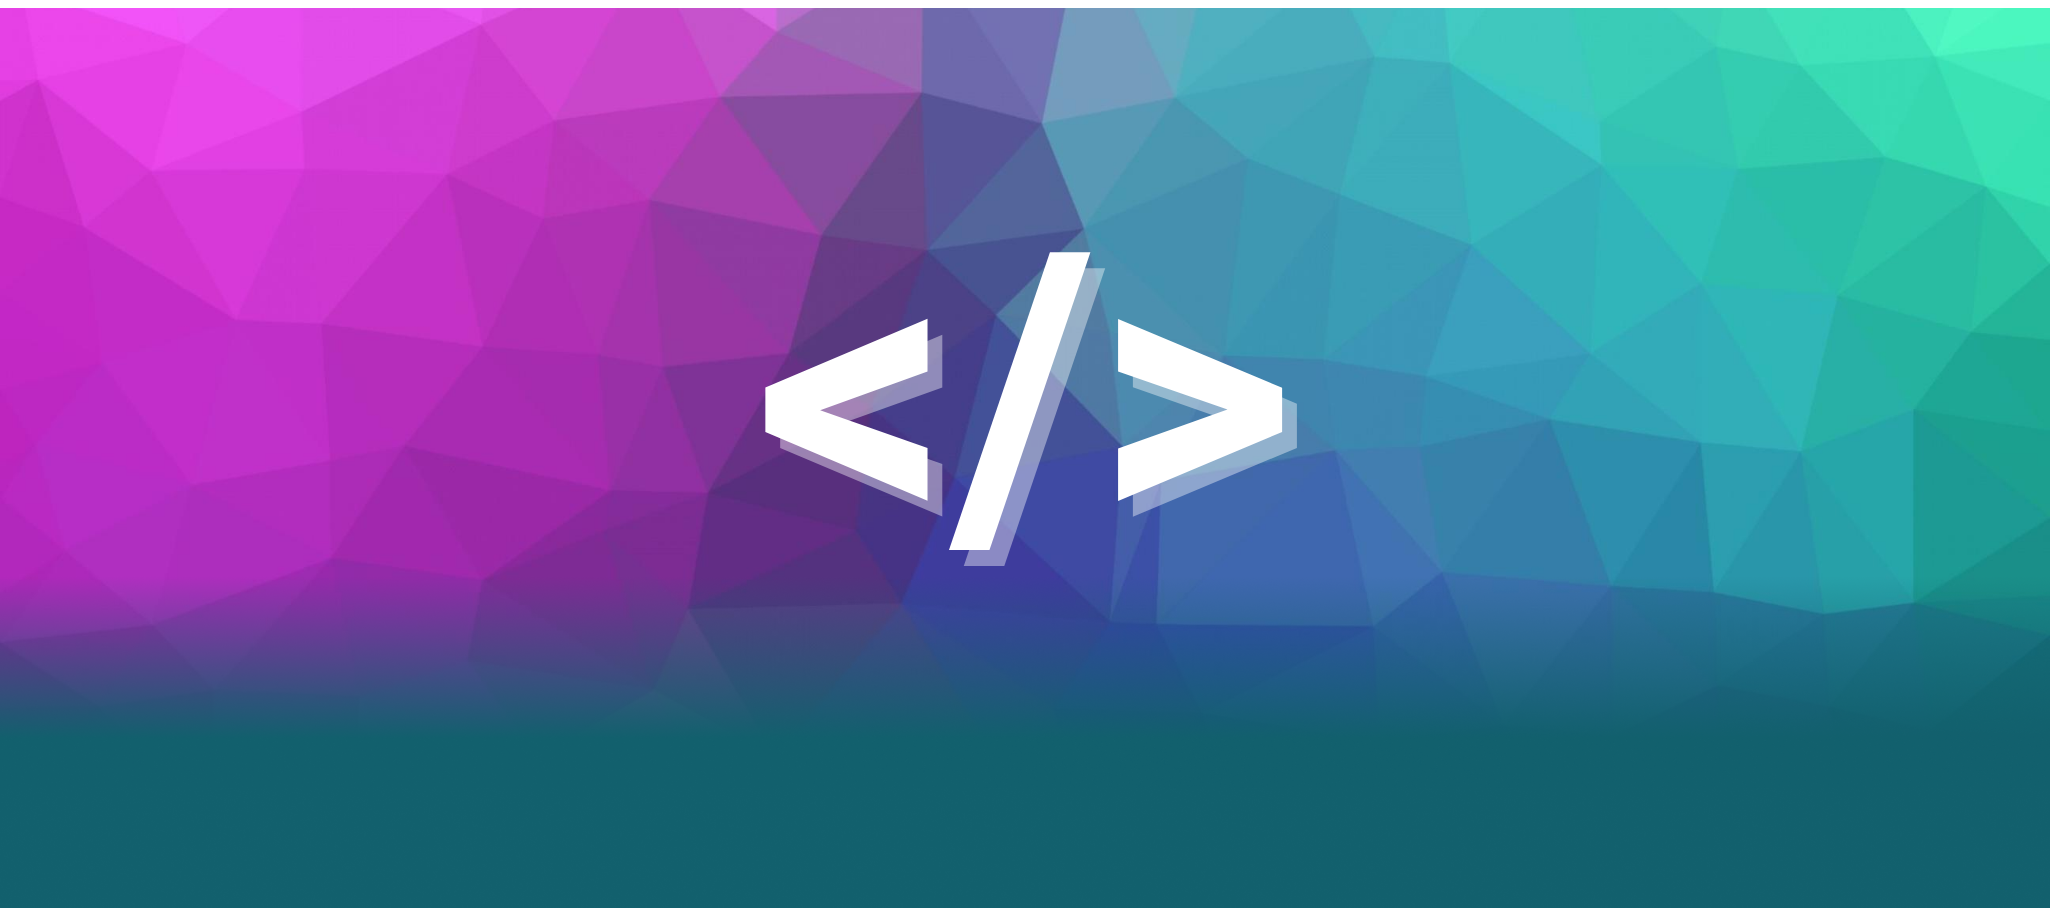
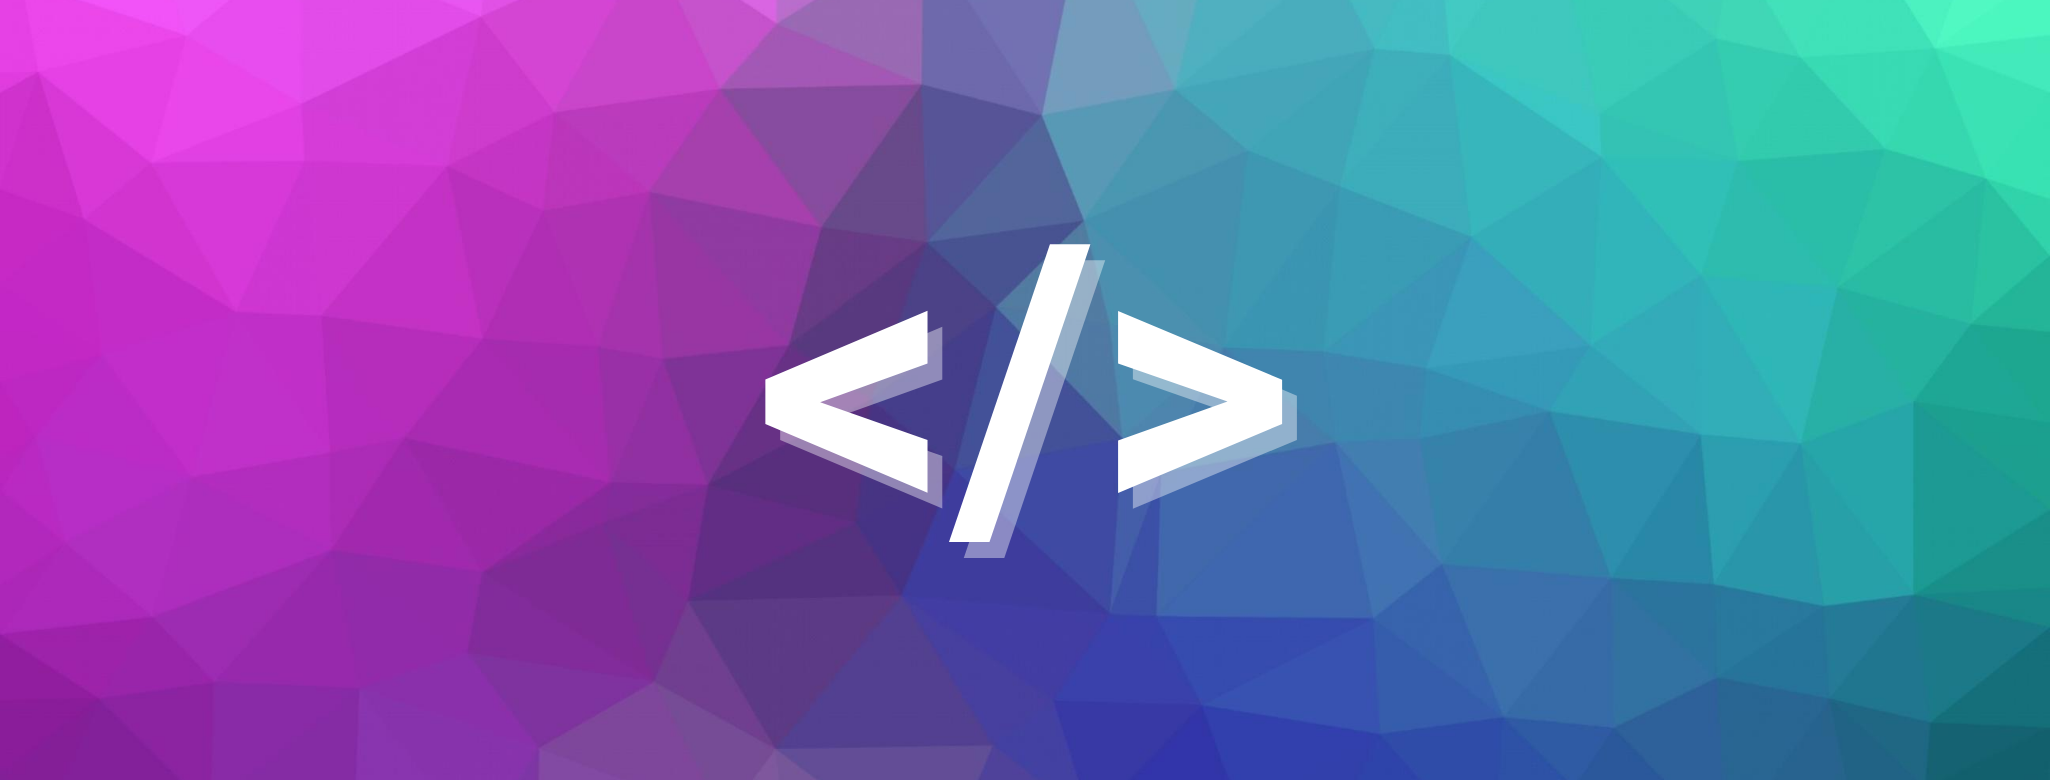
update bg

diff --git a/README.md b/README.md
@@ -30,4 +30,4 @@
 [twitch]: https://www.twitch.tv/chrisellisdev
 [linkedin]: https://www.linkedin.com/in/chris-ellis-dev/
 [npm]: https://www.npmjs.com/~chrisellisdev
-[email]: mailto:me@chrisellis.dev?subject=%F0%9F%99%8B%E2%80%8D%E2%99%82%EF%B8%8F%20I'd%20like%20to%20work%20with%20you
+[email]: mailto:me@chrisellis.dev?subject=%F0%9F%99%8B%E2%80%8D%E2%99%82%EF%B8%8F%20Chris%2C%20I'd%20like%20to%20work%20with%20you
